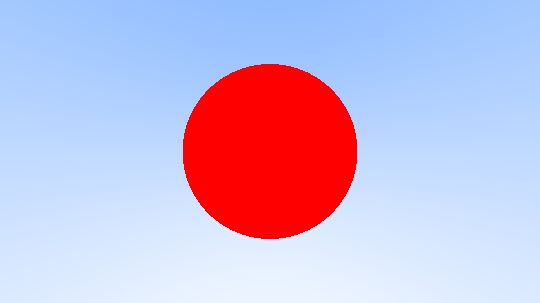
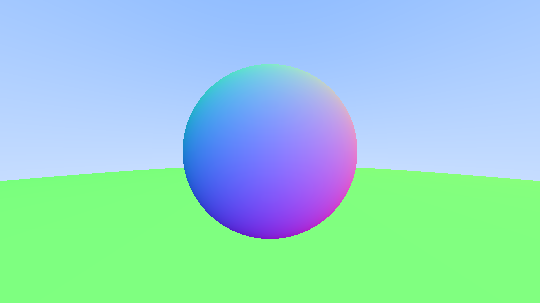
Chapter 6 done

diff --git a/src/private/main.cpp b/src/private/main.cpp
@@ -1,10 +1,12 @@
 #pragma warning (disable : 4514)
+#pragma warning (disable : 4820)
 #pragma warning (disable : 5045)
 
-#include <iostream>
-#include "color.h"
-#include "ray.h"
-#include "vec3.h"
+#include "rtweekend.h"
+
+#include "hittable.h"
+#include "hittableList.h"
+#include "sphere.h"
 
 namespace Image
 {
@@ -35,19 +37,11 @@ namespace Pixel
   auto loc00 {View::upperLeft + 0.5 * (deltaU + deltaV)};
 }
 
-bool hitSphere(const Point3& center, double radius, const Ray& r)
+Color rayColor(const Ray& r, const Hittable& world)
 {
-  Vec3 oc {center - r.origin()};
-  auto a {dot(r.direction(), r.direction())};
-  auto b {-2.0 * dot(r.direction(), oc)};
-  auto c {dot(oc, oc) - (radius * radius)};
-  auto discriminant {(b * b) - (4 * a * c)};
-  return (discriminant >= 0);
-}
-
-Color rayColor(const Ray& r)
-{
-  if (hitSphere(Point3 {0.0, 0.0, -1.0}, 0.5, r)) { return Color {1.0, 0.0, 0.0}; }
+  HitRecord rec {};
+  if (world.hit(r, Interval {0.0, infinity}, rec))
+  { return 0.5 * (rec.m_normal + Color {1.0, 1.0, 1.0}); }
 
   Vec3 unitDirection {unitVector(r.direction())};
   auto a {0.5 * (unitDirection.y() + 1.0)};
@@ -56,23 +50,29 @@ Color rayColor(const Ray& r)
 
 int main()
 {
+  HittableList world {};
+  world.add(std::make_shared<Sphere>(Point3 {0.0, 0.0, -1.0}, 0.5));
+  world.add(std::make_shared<Sphere>(Point3 {0.0, -100.5, -1.0}, 100));
+
   std::cout << "P3\n" << Image::width << ' ' << Image::height << "\n255\n";  
 
+  Timer t {};
   for (int j {0}; j < Image::height; ++j)
   {
-    std::clog << "\rScanlines remaining: " << (Image::width - j) << ' ' << std::flush;
+    std::clog << "\rScanlines remaining: " << (Image::height - j) << ' ' << std::flush;
     for (int i {0}; i < Image::width; ++i)
     {
       auto pixelCenter {Pixel::loc00 + (i * Pixel::deltaU) + (j * Pixel::deltaV)};
       auto rayDirection {pixelCenter - View::cameraCenter};
       Ray r {View::cameraCenter, rayDirection};
 
-      Color pixelColor {rayColor(r)};
+      Color pixelColor {rayColor(r, world)};
       writeColor(std::cout, pixelColor);
     }
   }
 
-  std::clog << "\rDone. \t\n";
+  std::clog << "Time elapsed: " << t.elapsed() << " seconds\n";
+  std::clog << "\nDone.       \n";
 
   return 0;
 }

diff --git a/src/public/sphere.h b/src/public/sphere.h
@@ -1,0 +1,45 @@
+#ifndef SPHERE_H
+#define SPHERE_H
+
+#include "hittable.h"
+
+class Sphere : public Hittable
+{
+private:
+  Point3 m_center {};
+  double m_radius {};
+
+public:
+  Sphere(const Point3& center, double radius)
+    : m_center {center}, m_radius {std::fmax(0.0, radius)}
+  {}
+
+  bool hit(const Ray& r, Interval rayT, HitRecord& rec) const override
+  {
+    Vec3 oc {m_center - r.origin()};
+    auto a {r.direction().length_squared()};
+    auto h {dot(r.direction(), oc)};
+    auto c {oc.length_squared() - (m_radius * m_radius)};
+
+    auto discriminant {(h * h) - (a * c)};
+    if (discriminant < 0) { return false; }
+
+    auto sqrtD {std::sqrt(discriminant)};
+
+    auto root {(h - sqrtD) / a};
+    if (!rayT.surrounds(root))
+    {
+      root = (h + sqrtD) / a;
+      if (!rayT.surrounds(root)) { return false; }
+    }
+
+    rec.m_t = root;
+    rec.m_p = r.at(rec.m_t);
+    Vec3 outwardNormal {(rec.m_p - m_center) / m_radius};
+    rec.setFaceNormal(r, outwardNormal);
+
+    return true;
+  }
+};
+
+#endif

diff --git a/src/public/hittableList.h b/src/public/hittableList.h
@@ -1,0 +1,40 @@
+#ifndef HITTABLE_LIST_H
+#define HITTABLE_LIST_H
+
+#include "hittable.h"
+#include <vector>
+
+class HittableList : public Hittable
+{
+public:
+  std::vector<std::shared_ptr<Hittable>> m_objects {};
+
+  HittableList() {};
+
+  HittableList(std::shared_ptr<Hittable> object) { add(object); }
+
+  void clear() { m_objects.clear(); }
+
+  void add(std::shared_ptr<Hittable> object)
+  { m_objects.push_back(object); }
+
+  bool hit(const Ray& r, Interval rayT, HitRecord& rec) const override
+  {
+    HitRecord tempRec {};
+    bool hitAnything {false};
+    auto closestSoFar {rayT.m_max};
+
+    for (const auto& object : m_objects)
+    {
+      if (object->hit(r, Interval {rayT.m_min, closestSoFar}, tempRec))
+      {
+        hitAnything = true;
+        closestSoFar = tempRec.m_t;
+        rec = tempRec;
+      }
+    }
+    return hitAnything;
+  }
+};
+
+#endif

diff --git a/src/public/interval.h b/src/public/interval.h
@@ -1,0 +1,32 @@
+#ifndef INTERVAL_H
+#define INTERVAL_H
+
+#include "rtweekend.h"
+
+class Interval
+{
+public:
+  double m_min {};
+  double m_max {};
+  
+  Interval()
+  : m_min {+infinity}, m_max {-infinity}
+  {}
+  
+  Interval(double min, double max)
+  : m_min {min}, m_max {max}
+  {}
+  
+  double size() const { return m_max - m_min; }
+  
+  bool contains(double x) const { return ((m_min <= x) && (x <= m_max)); }
+  
+  bool surrounds(double x) const { return ((m_min < x) && (x < m_max)); }
+
+  static const Interval empty, universe;
+};
+
+const Interval Interval::empty {Interval {+infinity, -infinity}};
+const Interval Interval::universe {Interval {-infinity, +infinity}};
+
+#endif

diff --git a/src/public/hittable.h b/src/public/hittable.h
@@ -1,0 +1,29 @@
+#ifndef HITTABLE_H
+#define HITTABLE_H
+
+#include "rtweekend.h"
+
+class HitRecord
+{
+public:
+  Point3 m_p {};
+  Vec3 m_normal {};
+  double m_t {};
+  bool m_frontFace {};
+
+  void setFaceNormal(const Ray& r, const Vec3& outwardNormal)
+  {
+    m_frontFace = (dot(r.direction(), outwardNormal) < 0);
+    m_normal = (m_frontFace ? outwardNormal : -outwardNormal);
+  }
+};
+
+class Hittable
+{
+public:
+  virtual ~Hittable() = default;
+
+  virtual bool hit(const Ray& r, Interval rayT, HitRecord& rec) const = 0;
+};
+
+#endif

diff --git a/src/public/rtweekend.h b/src/public/rtweekend.h
@@ -1,0 +1,21 @@
+#ifndef RTWEEKEND_H
+#define RTWEEKEND_H
+
+#include <limits>
+#include <cmath>
+#include <iostream>
+#include <memory>
+
+constexpr double infinity {std::numeric_limits<double>::infinity()};
+constexpr double pi {3.1415926535897932385};
+
+inline double degreesToRadians(double degrees)
+{ return degrees * (pi / 180.0); }
+
+#include "timer.h"
+#include "color.h"
+#include "interval.h"
+#include "ray.h"
+#include "vec3.h"
+
+#endif

diff --git a/src/public/timer.h b/src/public/timer.h
@@ -1,0 +1,21 @@
+#ifndef TIMER_H
+#define TIMER_H
+
+#include <chrono>
+
+class Timer
+{
+private:
+  using Clock = std::chrono::steady_clock;
+  using Second = std::chrono::duration<double, std::ratio<1>>;
+
+  std::chrono::time_point<Clock> m_beg {Clock::now()};
+
+public:
+  void reset() { m_beg = Clock::now(); }
+
+  double elapsed() const
+  { return std::chrono::duration_cast<Second>(Clock::now() - m_beg).count(); }
+};
+
+#endif

diff --git a/src/public/vec3.h b/src/public/vec3.h
@@ -1,8 +1,7 @@
 #ifndef VEC3_H
 #define VEC3_H
 
-#include <cmath>
-#include <iostream>
+#include "rtweekend.h"
 #include <vector>
 
 class Vec3

diff --git a/src/public/color.h b/src/public/color.h
@@ -1,7 +1,6 @@
 #ifndef COLOR_H
 #define COLOR_H
 
-#include <iostream>
 #include "vec3.h"
 
 using Color = Vec3;

diff --git a/src/public/ray.h b/src/public/ray.h
@@ -1,7 +1,7 @@
 #ifndef RAY_H
 #define RAY_H
 
-#include "vec3.h"
+#include "rtweekend.h"
 
 class Ray
 {

diff --git a/README.md b/README.md
@@ -2,7 +2,7 @@
 
 Following 'Ray Tracing in One Weekend' guide by Peter Shirley
 
-Completed till chapter 5
+Completed till chapter 6
 
 # Building
 Requires:
@@ -20,7 +20,10 @@ My `tasks.json` for build:
   "/permissive", "/Wall", "/WX",
   "/std:c++20",
   "${fileDirname}\\**.cpp"
-]
+],
+"options": {
+  "cwd": "${workspaceFolder}\\bin\\intermediates\\"
+}
 ```
 
 # Render
